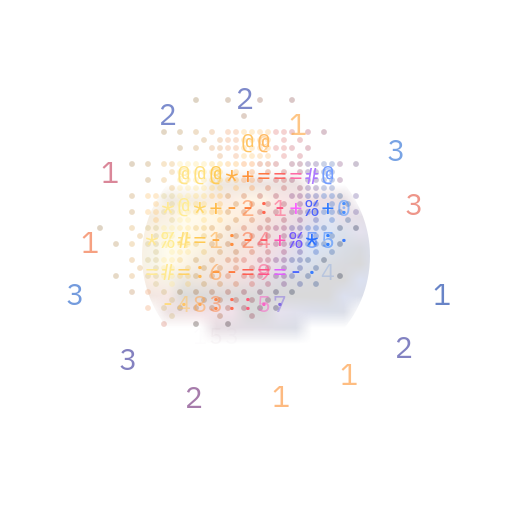
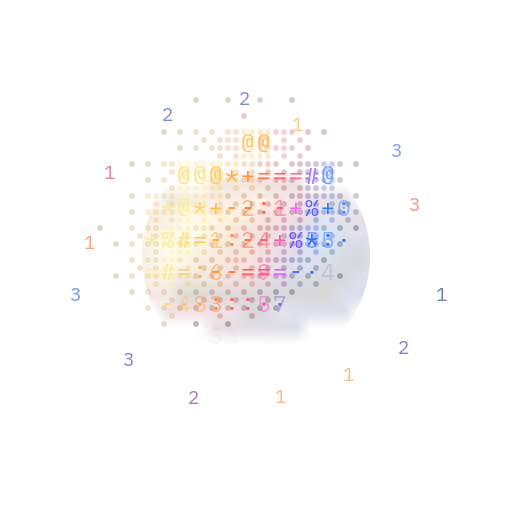
fix(brand): match launch poster digits to the live glyph atlas
Preserve small traveller tiles at the shared Brand height in the static
rasterizer. Route the web-only launch view to the web GlyphSurface.

diff --git a/apps/server/sources/app/account/profile/render/publicProfileSvg.ts b/apps/server/sources/app/account/profile/render/publicProfileSvg.ts
@@ -1,6 +1,6 @@
 import type { PublicProfileReadResultV1 } from '@happier-dev/protocol/account/publicProfilePublication';
 import { createPlanetStatusCell } from '@happier-dev/brand/planet';
-import { glyphFrame, planetGlyphLayer, type GlyphFrame, glyphLatticeRadius, glyphLatticeTile, glyphRampChars, glyphRampFirstTile } from '@happier-dev/brand/glyph-scene';
+import { glyphFrame, planetGlyphLayer, type GlyphFrame, glyphLatticeRadius, glyphLatticeTile, glyphRampChars, glyphRampFirstTile, glyphSmallDigitHeight } from '@happier-dev/brand/glyph-scene';
 import { horizonPlanetGeometry } from '@happier-dev/brand/planet-placement';
 import * as privacyKit from 'privacy-kit';
 import { loadSharp } from '@/storage/blob/sharpRuntime';
@@ -151,12 +151,17 @@ export async function renderPublicProfilePlanetSceneSvg(frame: GlyphFrame,
     if (!sprites.glyph.length) return disc;
     const font = await readPublicProfilePlanetFont();
     const fontSize = Math.round(grid.cell[1] * 0.94);
-    // Digits (regular and small cells share one face here), then the planet's light ramp and digits, by Brand's tile vocabulary.
-    const characters = `0123456789${glyphRampChars}0123456789`;
+    const digits = '0123456789';
     const planetFontSize = Math.round(grid.cell[1] * 0.72);
-    const atlas = await Promise.all(Array.from(characters, (text, index) => sharp({ text: {
-        text, font: `IBM Plex Mono ${index < 10 ? fontSize : planetFontSize}`, fontfile: font.path, rgba: true,
+    const rasterize = (characters: string, size: number) => Promise.all(Array.from(characters, text => sharp({ text: {
+        text, font: `IBM Plex Mono ${size}`, fontfile: font.path, rgba: true,
     } }).raw().toBuffer({ resolveWithObject: true })));
+    const [regular, ramp] = await Promise.all([
+        rasterize(digits, fontSize),
+        rasterize(glyphRampChars + digits, planetFontSize),
+    ]);
+    let small: Awaited<ReturnType<typeof rasterize>> | undefined;
+    const smallFontSize = Math.round(grid.cell[1] * 0.94 * glyphSmallDigitHeight);
     // The planet's lattice dot, drawn as coverage at its radius.
     const radius = glyphLatticeRadius * frame.width / pane.width, side = Math.ceil(radius * 2 + 2);
     const dot = { data: Buffer.alloc(side * side), info: { width: side, height: side, channels: 1 } };
@@ -166,7 +171,10 @@ export async function renderPublicProfilePlanetSceneSvg(frame: GlyphFrame,
     const rgba = Buffer.alloc(frame.width * frame.height * 4);
     for (let index = 0; index < sprites.glyph.length; index++) {
         const tile = sprites.glyph[index];
-        const { data, info } = tile === glyphLatticeTile ? dot : atlas[tile >= glyphRampFirstTile ? 10 + tile - glyphRampFirstTile : tile % 10];
+        const { data, info } = tile === glyphLatticeTile ? dot
+            : tile >= glyphRampFirstTile ? ramp[tile - glyphRampFirstTile]
+            : tile >= 10 && tile < 20 ? (small ??= await rasterize(digits, smallFontSize))[tile - 10]
+            : regular[tile % 10];
         const left = sprites.at[index * 2] - Math.round(info.width / 2);
         const top = sprites.at[index * 2 + 1] - Math.round(info.height / 2);
         const ink = index * 4;

diff --git a/apps/server/sources/app/account/profile/render/publicProfileHero.spec.ts b/apps/server/sources/app/account/profile/render/publicProfileHero.spec.ts
@@ -8,7 +8,7 @@ import { loadSharp } from '@/storage/blob/sharpRuntime';
 import { createPublicProfileHero, renderPublicProfileHeroImage, type PublicProfileHeroOptions } from './publicProfileHero';
 import { renderPublicProfileBackdrop } from './publicProfileBackdrop';
 import { renderPublicProfilePlanetSceneSvg } from './publicProfileSvg';
-import { glyphFrame, planetGlyphLayer } from '@happier-dev/brand/glyph-scene';
+import { glyphFrame, planetGlyphLayer, travellerGlyphLayer } from '@happier-dev/brand/glyph-scene';
 import { horizonPlanetGeometry } from '@happier-dev/brand/planet-placement';
 import { resolveHappierPublicProfilePlanetBand } from '@happier-dev/plugin-ui/presentation/pageMetrics';
 import { readStoredPublicProfileAppearance } from '../publicProfileStorage';
@@ -159,6 +159,28 @@ describe('cold public-profile hero pixels', () => {
         view.appearance.atmosphere = { source: 'none' };
         expect(createPublicProfileHero(view)).toBeUndefined();
         expect(await renderPublicProfileHeroImage(view, { palette }, { theme: 'light', viewport: 'wide', density: 1 })).toBeUndefined();
+    });
+
+    it('keeps small floating digits at their own size in a static frame', async () => {
+        const sharp = await loadSharp();
+        const pane = { width: 64, height: 64 };
+        const particles = new Float32Array([32, 32, 32, 32, 0, 0, 0, 0]);
+        const inkRows = async (small: boolean) => {
+            const layer = travellerGlyphLayer({ particles, small, ink: 'sunrise' });
+            const frame = glyphFrame({ view: { w: pane.width, h: pane.height }, dpr: 1, theme: 'dark', layers: [layer] });
+            const paint = await renderPublicProfilePlanetSceneSvg(frame, pane);
+            const svg = `<svg xmlns="http://www.w3.org/2000/svg" width="64" height="64">${paint}</svg>`;
+            const { data, info } = await sharp(Buffer.from(svg)).ensureAlpha().raw().toBuffer({ resolveWithObject: true });
+            let rows = 0;
+            for (let y = 0; y < info.height; y++) {
+                const row = data.subarray(y * info.width * 4, (y + 1) * info.width * 4);
+                if (row.some((value, at) => at % 4 === 3 && value > 0)) rows++;
+            }
+            return rows;
+        };
+        const [regular, small] = await Promise.all([inkRows(false), inkRows(true)]);
+        expect(small).toBeGreaterThan(0);
+        expect(small).toBeLessThan(regular);
     });
 
     it('uses the selected Horizon Look at the shared horizon and retains only frozen credit', async () => {

diff --git a/apps/ui/sources/components/atmosphere/glyph/glyphPainter.native.ts b/apps/ui/sources/components/atmosphere/glyph/glyphPainter.native.ts
@@ -1,6 +1,6 @@
 import { AlphaType, BlendMode, ClipOp, ColorType, FilterMode, MipmapMode, Skia, TileMode, createPicture } from '@shopify/react-native-skia';
 import type { SkCanvas, SkColor, SkImage, SkRSXform, SkRect } from '@shopify/react-native-skia';
-import type { GlyphFrame, GlyphGrid } from '@happier-dev/brand/glyph-scene';
+import { glyphSmallDigitHeight, type GlyphFrame, type GlyphGrid } from '@happier-dev/brand/glyph-scene';
 
 import { glyphAtlas } from './glyphAtlas.native';
 import { glyphAtlasChars, glyphAtlasColumns, glyphPlanetChars, glyphRampHeight, packGlyphAtlas } from './glyphAtlasLayout';
@@ -16,7 +16,7 @@ export async function createNativeGlyphPainter(grid: GlyphGrid, dpr: number) {
     const [w, h] = grid.cell;
     const [regular, small, ramp] = await Promise.all([
         glyphAtlas({ w: w / dpr, h: h / dpr, chars: glyphAtlasChars }, dpr),
-        glyphAtlas({ w: w * 0.75 / dpr, h: h * 0.625 / dpr, chars: glyphAtlasChars }, dpr),
+        glyphAtlas({ w: w * 0.75 / dpr, h: h * glyphSmallDigitHeight / dpr, chars: glyphAtlasChars }, dpr),
         glyphAtlas({ w: w / dpr, h: h * glyphRampHeight / dpr, chars: glyphPlanetChars }, dpr),
     ]);
     const pixels = packGlyphAtlas(grid, regular, small, ramp, dpr);

diff --git a/apps/ui/sources/components/atmosphere/glyph/glyphPainter.web.ts b/apps/ui/sources/components/atmosphere/glyph/glyphPainter.web.ts
@@ -1,4 +1,4 @@
-import type { GlyphFrame, GlyphGrid } from '@happier-dev/brand/glyph-scene';
+import { glyphSmallDigitHeight, type GlyphFrame, type GlyphGrid } from '@happier-dev/brand/glyph-scene';
 
 import { releaseCanvasBackingStore } from '@/components/ui/media/canvasBackingStore';
 
@@ -91,7 +91,7 @@ export async function warmWebGlyphAtlas(grid: GlyphGrid, dpr: number): Promise<A
     const [w, h] = grid.cell;
     const [regular, small, ramp] = await Promise.all([
         glyphAtlas({ w: w / dpr, h: h / dpr, chars: glyphAtlasChars }, dpr),
-        glyphAtlas({ w: w * 0.75 / dpr, h: h * 0.625 / dpr, chars: glyphAtlasChars }, dpr),
+        glyphAtlas({ w: w * 0.75 / dpr, h: h * glyphSmallDigitHeight / dpr, chars: glyphAtlasChars }, dpr),
         glyphAtlas({ w: w / dpr, h: h * glyphRampHeight / dpr, chars: glyphPlanetChars }, dpr),
     ]);
     return packGlyphAtlas(grid, regular, small, ramp, dpr);

diff --git a/apps/ui/sources/components/appShell/workspace/AppLaunchState.tsx b/apps/ui/sources/components/appShell/workspace/AppLaunchState.tsx
@@ -37,11 +37,11 @@ function StillPlanet({ theme, testID }: LaunchPlanetProps) {
 }
 
 function LivePlanet({ theme, testID }: LaunchPlanetProps) {
-  const [surface, setSurface] = React.useState<typeof import('@/components/atmosphere/glyph/GlyphSurface').GlyphSurface | null>(null);
+  const [surface, setSurface] = React.useState<typeof import('@/components/atmosphere/glyph/GlyphSurface.web').GlyphSurface | null>(null);
   const [ready, setReady] = React.useState(false);
   React.useEffect(() => {
     let mounted = true;
-    void import('@/components/atmosphere/glyph/GlyphSurface').then(({ GlyphSurface }) => {
+    void import('@/components/atmosphere/glyph/GlyphSurface.web').then(({ GlyphSurface }) => {
       if (mounted) setSurface(() => GlyphSurface);
     }, () => {});
     return () => { mounted = false; };

diff --git a/apps/ui/sources/components/appShell/workspace/WorkspaceAppShellProvider.restore.composed.test.tsx b/apps/ui/sources/components/appShell/workspace/WorkspaceAppShellProvider.restore.composed.test.tsx
@@ -22,7 +22,7 @@ vi.mock('react-native-enriched-markdown/lib/module/web/streamingReveal.js', () =
 
 vi.stubGlobal('matchMedia', (media: string) => ({
     media,
-    matches: media === '(prefers-reduced-motion: reduce)',
+    matches: false,
     addEventListener: () => {},
     removeEventListener: () => {},
 }));
@@ -103,6 +103,7 @@ it('admits the first Account workspace after real cold Sync restore reaches data
     try {
         expect(storage.getState().isDataReady).toBe(false);
         expect(screen.root.findAllByType('AdmittedWorkspace')).toHaveLength(0);
+        await vi.waitFor(() => expect(screen.root.findAllByType('canvas').length).toBeGreaterThan(0));
         await act(async () => {
             settings.resolve();
             await restoration;
